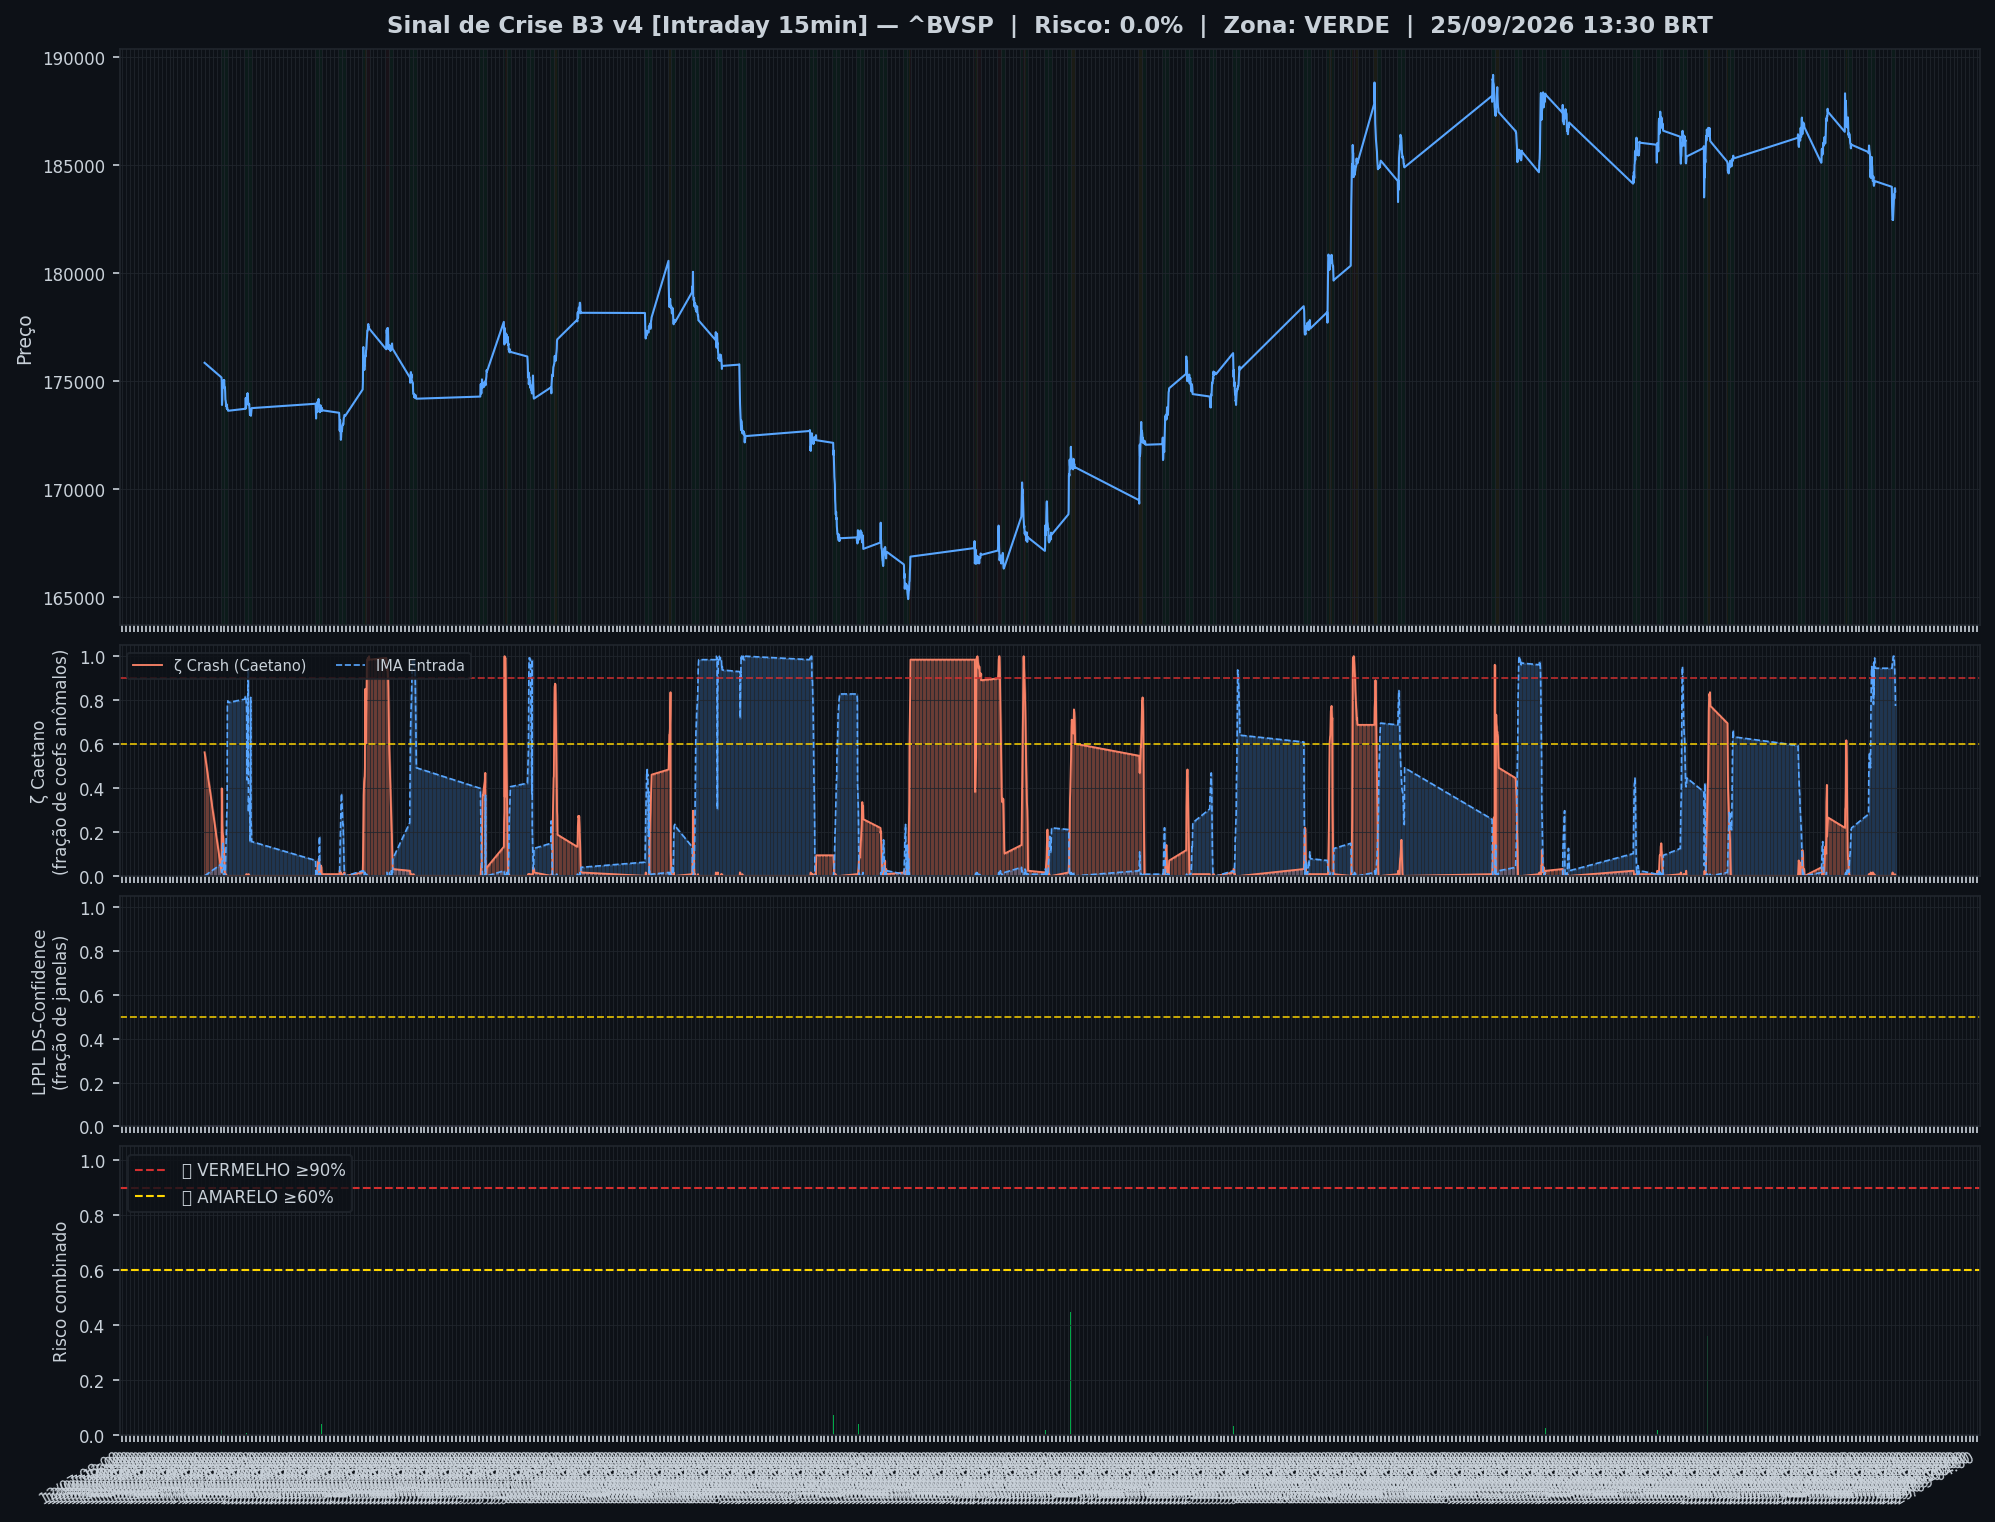
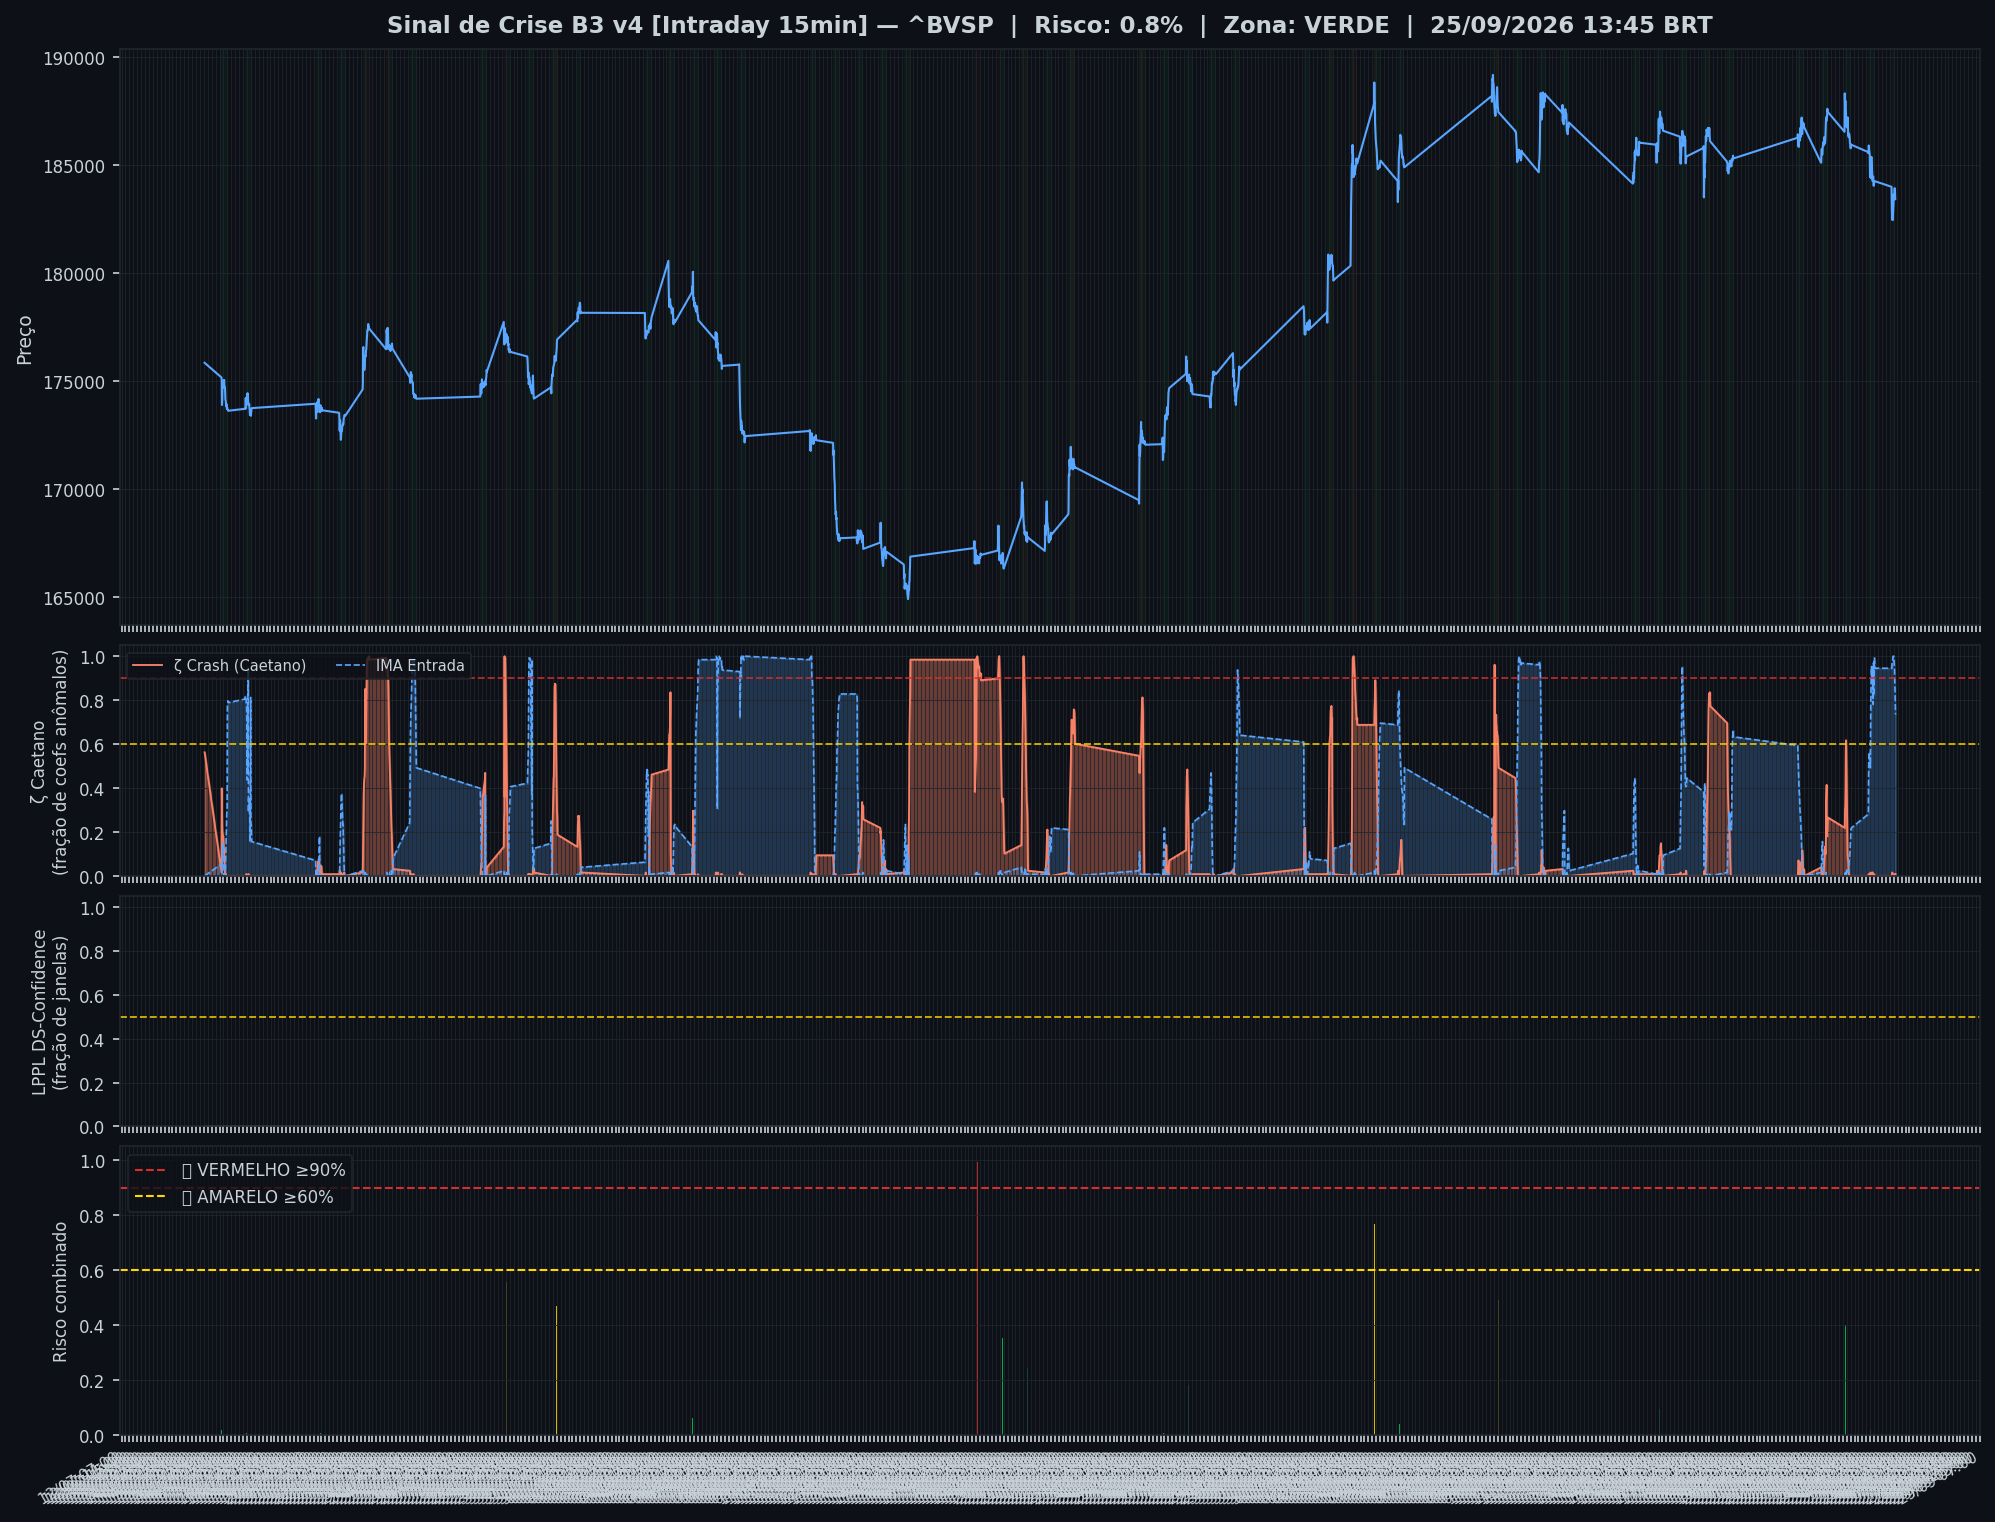
🤖 Auto: Sinal 25/09/2026 14:31

Changed region(s): [[0.0932, 0.4323, 0.9634, 0.5867], [0.0311, 0.9264, 0.9945, 0.9882], [0.9013, 0.4014, 0.9323, 0.4323]]

diff --git a/content/intraday/2026-09-25.md b/content/intraday/2026-09-25.md
@@ -1,20 +1,20 @@
 ---
-title: "🟢 Intraday 25/09/2026 13:30 BRT — VERDE"
+title: "🟢 Intraday 25/09/2026 13:45 BRT — VERDE"
 date: 2026-09-25
 tags: [intraday]
 ---
 
-> [!success] 🟢 **VERDE** — Risco 0% · ＝ +0 p.p. vs leitura anterior
+> [!success] 🟢 **VERDE** — Risco 1% · ▲ +1 p.p. vs leitura anterior
 > `░░░░░░░░░░░░░░░░░░░░`
 > Mercado sem sinais relevantes de estresse.
 
 
 | Indicador | Valor |
 |---|---|
-| 🔴 ζ Crash — severidade da queda em curso | **0%** |
-| 🔵 ζ Entrada — estrutura de fundo | 77% |
+| 🔴 ζ Crash — severidade da queda em curso | **1%** |
+| 🔵 ζ Entrada — estrutura de fundo | 73% |
 | 🫧 LPPL DS-Confidence | 0% |
-| 📊 Ibovespa | 183.778 pts |
+| 📊 Ibovespa | 183.418 pts |
 
 ![Gráfico do sinal](../graficos/sinal_intraday.png)
 
@@ -22,6 +22,7 @@ tags: [intraday]
 
 | Data | Zona | Risco | IMA Crash | Entrada | LPPL |
 |---|---|---|---|---|---|
+| 2026-09-25 13:45 | 🟢 VERDE | **1%** | 1% | 73% | 0% |
 | 2026-09-25 13:30 | 🟢 VERDE | **0%** | 0% | 77% | 0% |
 | 2026-09-25 13:15 | 🟢 VERDE | **0%** | 0% | 84% | 0% |
 | 2026-09-25 13:00 | 🟢 VERDE | **1%** | 1% | 89% | 0% |
@@ -51,7 +52,6 @@ tags: [intraday]
 | 2026-09-24 14:00 | 🟢 VERDE | **1%** | 1% | 88% | 0% |
 | 2026-09-24 13:45 | 🟢 VERDE | **1%** | 1% | 89% | 0% |
 | 2026-09-24 13:30 | 🟢 VERDE | **0%** | 0% | 93% | 0% |
-| 2026-09-24 13:15 | 🟢 VERDE | **0%** | 0% | 95% | 0% |
 
 ## Monitor Multi-Ativo
 
@@ -59,35 +59,35 @@ tags: [intraday]
 
 | Zona | Ativo | Setor | IMA Crash | IMA Entrada |
 |---|---|---|---|---|
-| 🟢 | **USD/BRL** | Câmbio | 0.8% | 14.1% |
+| 🟢 | **USD/BRL** | Câmbio | 11.7% | 8.6% |
+| 🟢 | **ITAUUNIBANCO** | Financeiro | 0.8% | 14.1% |
+| 🟢 | **PETROBRAS** | Petróleo | 0.8% | 14.1% |
+| 🟢 | **PETROBRAS** | Petróleo | 0.8% | 14.1% |
+| 🟢 | **AXIA ENERGIA** | Energia | 0.8% | 14.1% |
+| 🟢 | **SABESP** | Saneamento | 0.8% | 14.1% |
+| 🟢 | **BRADESCO** | Financeiro | 0.8% | 14.1% |
+| 🟢 | **B3** | Financeiro | 0.8% | 14.1% |
+| 🟢 | **ITAUSA** | Financeiro | 0.8% | 14.1% |
+| 🟢 | **BTGP BANCO** | Financeiro | 0.8% | 14.1% |
+| 🟢 | **WEG** | Industrial | 0.8% | 14.1% |
+| 🟢 | **EMBRAER** | Outros | 0.8% | 14.1% |
+| 🟢 | **AMBEV S/A** | Consumo | 0.8% | 14.1% |
+| 🟢 | **BRASIL** | Financeiro | 0.8% | 14.1% |
+| 🟢 | **ENEVA** | Energia | 0.8% | 14.1% |
+| 🟢 | **EQUATORIAL** | Energia | 0.8% | 14.1% |
+| 🟢 | **VIBRA** | Energia | 0.8% | 14.1% |
+| 🟢 | **COPEL** | Energia | 0.8% | 14.1% |
+| 🟢 | **PRIO** | Petróleo | 0.8% | 14.1% |
+| 🟢 | **ULTRAPAR** | Outros | 0.8% | 14.1% |
+| 🟢 | **REDE D OR** | Saúde | 0.8% | 14.1% |
+| 🟢 | **LOCALIZA** | Aluguel | 0.8% | 14.1% |
+| 🟢 | **GERDAU** | Siderurgia | 0.8% | 14.1% |
+| 🟢 | **SUZANO S.A.** | Papel/Celulose | 0.8% | 14.1% |
 | 🟢 | **VALE** | Mineração | 0.0% | 11.7% |
-| 🟢 | **ITAUUNIBANCO** | Financeiro | 0.0% | 11.7% |
-| 🟢 | **PETROBRAS** | Petróleo | 0.0% | 11.7% |
-| 🟢 | **PETROBRAS** | Petróleo | 0.0% | 22.7% |
-| 🟢 | **AXIA ENERGIA** | Energia | 0.0% | 11.7% |
-| 🟢 | **SABESP** | Saneamento | 0.0% | 11.7% |
-| 🟢 | **BRADESCO** | Financeiro | 0.0% | 11.7% |
-| 🟢 | **B3** | Financeiro | 0.0% | 11.7% |
-| 🟢 | **ITAUSA** | Financeiro | 0.0% | 11.7% |
-| 🟢 | **BTGP BANCO** | Financeiro | 0.0% | 11.7% |
-| 🟢 | **WEG** | Industrial | 0.0% | 11.7% |
-| 🟢 | **EMBRAER** | Outros | 0.0% | 22.7% |
-| 🟢 | **AMBEV S/A** | Consumo | 0.0% | 11.7% |
-| 🟢 | **BRASIL** | Financeiro | 0.0% | 11.7% |
-| 🟢 | **ENEVA** | Energia | 0.0% | 11.7% |
-| 🟢 | **EQUATORIAL** | Energia | 0.0% | 11.7% |
-| 🟢 | **VIBRA** | Energia | 0.0% | 11.7% |
-| 🟢 | **COPEL** | Energia | 0.0% | 11.7% |
-| 🟢 | **PRIO** | Petróleo | 0.0% | 11.7% |
-| 🟢 | **ULTRAPAR** | Outros | 0.0% | 22.7% |
-| 🟢 | **REDE D OR** | Saúde | 0.0% | 11.7% |
-| 🟢 | **LOCALIZA** | Aluguel | 0.0% | 11.7% |
-| 🟢 | **GERDAU** | Siderurgia | 0.0% | 11.7% |
-| 🟢 | **SUZANO S.A.** | Papel/Celulose | 0.0% | 11.7% |
 
 ![Monitor multi-ativo](../graficos/multi_intraday.png)
 
-*Página atualizada em 25/09/2026 14:16 BRT (leitura da barra de 2026-09-25 13:30 BRT).*
+*Página atualizada em 25/09/2026 14:31 BRT (leitura da barra de 2026-09-25 13:45 BRT).*
 
 > [!info]- Como interpretar (clique para expandir)
 > - **ζ Crash**: fração dos coeficientes wavelet acima do corte (Caetano & Yoneyama 2009). Escala absoluta: ζ=0,90 = 90% dos coeficientes anômalos — historicamente, quedas com ζ≥0,90 foram mais fundas e mais longas. **Mede a severidade do movimento em curso, não prevê o início da queda.**

diff --git a/content/index.md b/content/index.md
@@ -8,19 +8,19 @@ tags: [home]
 
 Monitoramento diário e intraday do Ibovespa — **IMA Wavelet** (Prof. Marco Antonio Leonel Caetano, ITA/INSPER) + **LPPL DS-Confidence** (Prof. Didier Sornette, ETH-Zurich).
 
-*Última atualização: 25/09/2026 14:16 BRT · ^BVSP · Intraday 15min · v4*
+*Última atualização: 25/09/2026 14:31 BRT · ^BVSP · Intraday 15min · v4*
 
-> [!success] 🟢 **VERDE** — Risco 0% · ＝ +0 p.p. vs leitura anterior
+> [!success] 🟢 **VERDE** — Risco 1% · ▲ +1 p.p. vs leitura anterior
 > `░░░░░░░░░░░░░░░░░░░░`
 > Mercado sem sinais relevantes de estresse.
 
 
 | Indicador | Valor |
 |---|---|
-| 🔴 ζ Crash — severidade da queda em curso | **0%** |
-| 🔵 ζ Entrada — estrutura de fundo | 77% |
+| 🔴 ζ Crash — severidade da queda em curso | **1%** |
+| 🔵 ζ Entrada — estrutura de fundo | 73% |
 | 🫧 LPPL DS-Confidence | 0% |
-| 📊 Ibovespa | 183.778 pts |
+| 📊 Ibovespa | 183.418 pts |
 
 **Multi-ativo:** 0% em tensão (0🔴 0🟡 de 25 ativos)
 
@@ -32,7 +32,7 @@ Monitoramento diário e intraday do Ibovespa — **IMA Wavelet** (Prof. Marco An
 
 | Data | Zona | Risco | IMA | LPPL |
 |---|---|---|---|---|
-| [25 Sep 2026](diario/2026-09-25) | 🟢 VERDE | **0%** | 0% | 0% |
+| [25 Sep 2026](diario/2026-09-25) | 🟢 VERDE | **1%** | 1% | 0% |
 | [24 Sep 2026](diario/2026-09-24) | 🟢 VERDE | **0%** | 0% | 0% |
 
 ## Navegação

diff --git a/content/historico.md b/content/historico.md
@@ -7,6 +7,7 @@ tags: [historico]
 
 | Data | Modo | Zona | Risco | IMA | LPPL |
 |---|---|---|---|---|---|
+| 2026-09-25 13:45 | intraday | 🟢 VERDE | 1% | 1% | 0% |
 | 2026-09-25 13:30 | intraday | 🟢 VERDE | 0% | 0% | 0% |
 | 2026-09-25 13:15 | intraday | 🟢 VERDE | 0% | 0% | 0% |
 | 2026-09-25 13:00 | intraday | 🟢 VERDE | 1% | 1% | 0% |
